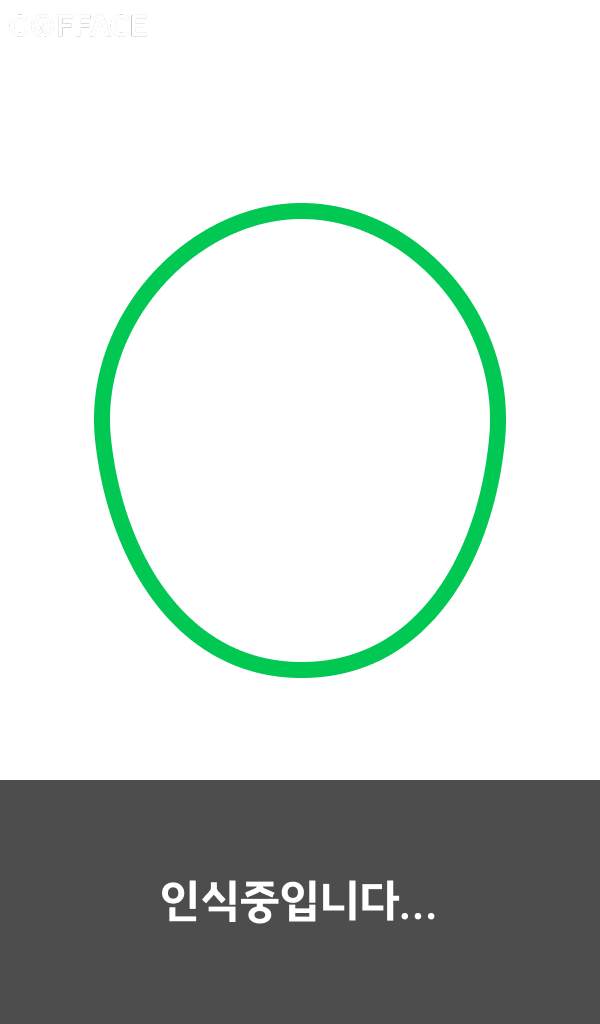
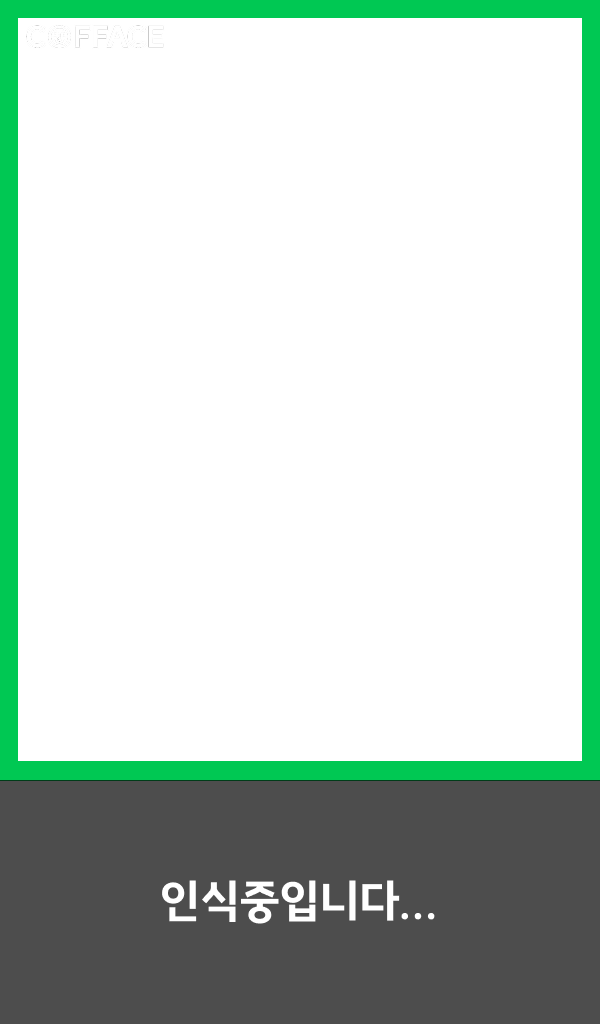
[#S12P31E202-187][AI] Fix: 얼굴인식 시간 수정

Changed region(s): [[0.0, 0.0, 1.0, 0.7812], [0.15, 0.1875, 0.84, 0.6875]]

diff --git a/AI/Joochan/BE/pyglet_gui_test.py b/AI/Joochan/BE/pyglet_gui_test.py
@@ -46,77 +46,77 @@ class GestureDetectionResult(BaseModel):
     session_id: str
     timestamp: datetime
 
-class CountdownTimer:
-    def __init__(self):
-        self.active = False
-        self.value = 0
-        self.start_time = 0
-        self.duration = 0
-        self.delay = 0
-        self.delay_start_time = 0
-        self.is_in_delay = False
+# class CountdownTimer:
+#     def __init__(self):
+#         self.active = False
+#         self.value = 0
+#         self.start_time = 0
+#         self.duration = 0
+#         self.delay = 0
+#         self.delay_start_time = 0
+#         self.is_in_delay = False
     
-    def start(self, duration=3, delay=0):
-        """타이머 시작"""
-        self.active = True
-        self.value = duration
-        self.duration = duration
-        self.delay = delay
-        self.delay_start_time = time.time()
-        self.is_in_delay = delay > 0
-        print(f"타이머 시작: {delay}초 후 {duration}초 카운트다운")
-        return self
+#     def start(self, duration=3, delay=0):
+#         """타이머 시작"""
+#         self.active = True
+#         self.value = duration
+#         self.duration = duration
+#         self.delay = delay
+#         self.delay_start_time = time.time()
+#         self.is_in_delay = delay > 0
+#         print(f"타이머 시작: {delay}초 후 {duration}초 카운트다운")
+#         return self
     
-    def stop(self):
-        """타이머 중지"""
-        self.active = False
-        self.value = 0
-        print("타이머 중지")
-        return self
+#     def stop(self):
+#         """타이머 중지"""
+#         self.active = False
+#         self.value = 0
+#         print("타이머 중지")
+#         return self
     
-    def update(self):
-        """타이머 업데이트 (매 프레임마다 호출)"""
-        if not self.active:
-            return self
+#     def update(self):
+#         """타이머 업데이트 (매 프레임마다 호출)"""
+#         if not self.active:
+#             return self
         
-        current_time = time.time()
+#         current_time = time.time()
         
-        # 지연 시간 처리
-        if self.is_in_delay:
-            elapsed_delay = current_time - self.delay_start_time
-            if elapsed_delay >= self.delay:
-                # 지연 시간 종료, 본 카운트다운 시작
-                self.is_in_delay = False
-                self.start_time = current_time
-                print(f"지연 시간 종료, 카운트다운 시작: {self.duration}초")
-            return self
+#         # 지연 시간 처리
+#         if self.is_in_delay:
+#             elapsed_delay = current_time - self.delay_start_time
+#             if elapsed_delay >= self.delay:
+#                 # 지연 시간 종료, 본 카운트다운 시작
+#                 self.is_in_delay = False
+#                 self.start_time = current_time
+#                 print(f"지연 시간 종료, 카운트다운 시작: {self.duration}초")
+#             return self
         
-        # 카운트다운 처리
-        elapsed = current_time - self.start_time
-        seconds_passed = int(elapsed)
-        new_value = self.duration - seconds_passed
+#         # 카운트다운 처리
+#         elapsed = current_time - self.start_time
+#         seconds_passed = int(elapsed)
+#         new_value = self.duration - seconds_passed
         
-        # 값이 변경된 경우에만 업데이트
-        if new_value != self.value:
-            self.value = new_value
-            print(f"카운트다운: {self.value}")
+#         # 값이 변경된 경우에만 업데이트
+#         if new_value != self.value:
+#             self.value = new_value
+#             print(f"카운트다운: {self.value}")
             
-            # 카운트다운 종료
-            if self.value <= 0:
-                self.active = False
-                print("카운트다운 완료")
+#             # 카운트다운 종료
+#             if self.value <= 0:
+#                 self.active = False
+#                 print("카운트다운 완료")
         
-        return self
+#         return self
         
-    @property
-    def is_active(self):
-        """타이머가 활성화되어 있는지 여부"""
-        return self.active
+#     @property
+#     def is_active(self):
+#         """타이머가 활성화되어 있는지 여부"""
+#         return self.active
     
-    @property
-    def current_value(self):
-        """현재 카운트다운 값"""
-        return max(0, self.value)
+#     @property
+#     def current_value(self):
+#         """현재 카운트다운 값"""
+#         return max(0, self.value)
 
 
 # 웹소켓 제스처 감지 관리자
@@ -187,7 +187,7 @@ def parse_args():
                         help='대상 화면 높이')
     parser.add_argument('--min_depth', type=float, default=0.36, 
                         help='감지할 최소 깊이 (미터)')
-    parser.add_argument('--max_depth', type=float, default=0.6, 
+    parser.add_argument('--max_depth', type=float, default=0.8, 
                         help='감지할 최대 깊이 (미터)')
     parser.add_argument('--api_port', type=int, default=8080, 
                         help='FastAPI 서버 포트')
@@ -484,7 +484,7 @@ class RealSenseFaceLiveness:
             self.window.set_location(window_x, window_y)
             
             # 전체화면 설정 (요청 시)
-            if args.fullscreen:
+            if args.fullscreen and (target_screen.width == 600 and target_screen.height == 1024):
                 self.window.set_fullscreen(True, screen=target_screen)
             
             print(f"창 생성 완료: {self.window.width}x{self.window.height} @ {self.window.get_location()}")
@@ -638,24 +638,24 @@ class RealSenseFaceLiveness:
             print(f"[Overlay] PNG 로드 실패: {e}")
         
         
-        self.countdown_timer = CountdownTimer()
+        # self.countdown_timer = CountdownTimer()
         
-        # 카운트다운 레이블 추가
-        self.countdown_label = pyglet.text.Label(
-            '',
-            font_name='Arial',
-            font_size=120,  # 큰 글씨
-            x=self.target_width // 2,
-            y=(self.target_height // 2)+100,
-            anchor_x='center',
-            anchor_y='center',
-            color=(255, 255, 255, 255),
-        )
+        # # 카운트다운 레이블 추가
+        # self.countdown_label = pyglet.text.Label(
+        #     '',
+        #     font_name='Arial',
+        #     font_size=120,  # 큰 글씨
+        #     x=self.target_width // 2,
+        #     y=(self.target_height // 2)+100,
+        #     anchor_x='center',
+        #     anchor_y='center',
+        #     color=(255, 255, 255, 255),
+        # )
         
-        # 카운트다운 상태 변수
-        self.countdown_active = False
-        self.countdown_value = 0
-        self.countdown_event = None
+        # # 카운트다운 상태 변수
+        # self.countdown_active = False
+        # self.countdown_value = 0
+        # self.countdown_event = None
         
         
         
@@ -667,8 +667,8 @@ class RealSenseFaceLiveness:
                 
                 self.process_pending_display_change()
                 
-                if hasattr(self, 'countdown_timer'):
-                    self.countdown_timer.update()
+                # if hasattr(self, 'countdown_timer'):
+                #     self.countdown_timer.update()
                 # 제스쳐 모드
                 if self.detecting_gesture:
                     if self.idle_gif and hasattr(self.idle_gif, 'frames') and self.idle_gif.frames:
@@ -786,9 +786,9 @@ class RealSenseFaceLiveness:
                         )
                         label.draw()
                 
-                if self.countdown_timer.is_active and not self.countdown_timer.is_in_delay:
-                    self.countdown_label.text = str(self.countdown_timer.current_value)
-                    self.countdown_label.draw()
+                # if self.countdown_timer.is_active and not self.countdown_timer.is_in_delay:
+                #     self.countdown_label.text = str(self.countdown_timer.current_value)
+                #     self.countdown_label.draw()
                 
                 # UI 텍스트가 활성화된 경우에만 FPS 및 상태 표시
                 if self.show_ui:
@@ -808,10 +808,10 @@ class RealSenseFaceLiveness:
             except Exception as e:
                 print(f"화면 그리기 오류 (무시됨): {e}")
     
-    def start_countdown(self, total_seconds=3, delay_before_start=1.0):
-        self.countdown_timer.stop()
-        self.countdown_timer.start(duration=total_seconds, delay=delay_before_start)
-        print(f"카운트다운 시작: {delay_before_start}초 지연 후 {total_seconds}초 카운트다운")
+    # def start_countdown(self, total_seconds=3, delay_before_start=1.0):
+    #     self.countdown_timer.stop()
+    #     self.countdown_timer.start(duration=total_seconds, delay=delay_before_start)
+    #     print(f"카운트다운 시작: {delay_before_start}초 지연 후 {total_seconds}초 카운트다운")
     
     
     def initialize_face_app(self):
@@ -901,7 +901,7 @@ class RealSenseFaceLiveness:
         # 카메라를 끄는 경우 진행 중인, 인식 프로세스도 중단
         if not enabled and self.processing_api_request:
             print("카메라 비활성화로 인한 인식 프로세스 중단")
-            self.countdown_timer.stop()
+            # self.countdown_timer.stop()
             self.processing_api_request = False
             # 결과 이벤트 설정으로 대기 중인 요청도 완료 처리
             self.api_result = {
@@ -917,9 +917,9 @@ class RealSenseFaceLiveness:
             self.detecting_gesture = False
             self.current_gesture_session = None
         
-        if not enabled and hasattr(self, 'countdown_timer') and self.countdown_timer.is_active:
-            print("카메라 비활성화로 인한 카운트다운 중단")
-            self.countdown_timer.stop()
+        # if not enabled and hasattr(self, 'countdown_timer') and self.countdown_timer.is_active:
+        #     print("카메라 비활성화로 인한 카운트다운 중단")
+        #     self.countdown_timer.stop()
         
         self.camera_mode = enabled
         print(f"카메라 모드: {'활성화' if enabled else '비활성화'}")
@@ -2066,19 +2066,19 @@ class FaceRecognitionServer:
             
             # 카메라 모드 활성화
             self.app_instance.set_camera_mode(True)
-            self.app_instance.start_countdown()
+            # self.app_instance.start_countdown()
             # 사용자가 얼굴 위치를 맞출 수 있도록 3초 대기
-            print("얼굴 위치 맞추기: 3초 대기 중...")
+            # print("얼굴 위치 맞추기: 3초 대기 중...")
             
             # 세분화된 대기로 중간에 카메라 상태 확인 가능하게 함
-            for i in range(40):  # 0.1초 간격으로 30번 = 3초
-                if not self.app_instance.camera_mode:
-                    # 중간에 카메라가 꺼진 경우
-                    return {
-                        "success": False,
-                        "message": "카메라가 비활성화되어 인식이 취소되었습니다."
-                    }
-                await asyncio.sleep(0.1)
+            # for i in range(10):  # 0.1초 간격으로 30번 = 3초
+            #     if not self.app_instance.camera_mode:
+            #         # 중간에 카메라가 꺼진 경우
+            #         return {
+            #             "success": False,
+            #             "message": "카메라가 비활성화되어 인식이 취소되었습니다."
+            #         }
+            #     await asyncio.sleep(0.1)
             
             # 대기 후 카메라가 여전히 켜져 있는지 확인
             if not self.app_instance.camera_mode:
@@ -2100,7 +2100,7 @@ class FaceRecognitionServer:
             
             # 프레임 수집 설정 업데이트
             self.app_instance.required_frames = 13  # 최대 13개 프레임
-            self.app_instance.max_wait_time = 1.5   # 1.5초 제한
+            self.app_instance.max_wait_time = 1.0   # 1.5초 제한
             
             # 프레임 수집 시작
             self.app_instance.start_frame_collection(frame_based=True)

diff --git a/AI/Joochan/BE/README.md b/AI/Joochan/BE/README.md
@@ -20,7 +20,7 @@ pip install onnxruntime-gpu
 
 #### 2. Qdrant 설치
 
-wsl에서 불러오기 or EC2에서 불러오고 포트 열어서 테스트
+wsl에서 설치
 
 ```bash
 # Docker 사용하여 Qdrant 설치
@@ -28,3 +28,5 @@ docker run -d --name qdrant -p 6333:6333 -v $(pwd)/qdrant_storage:/qdrant/storag
 # python 클라이언트 설치
 pip install qdrant-client
 ```
+
+#### 3. CUDA & CuDNN 설치
